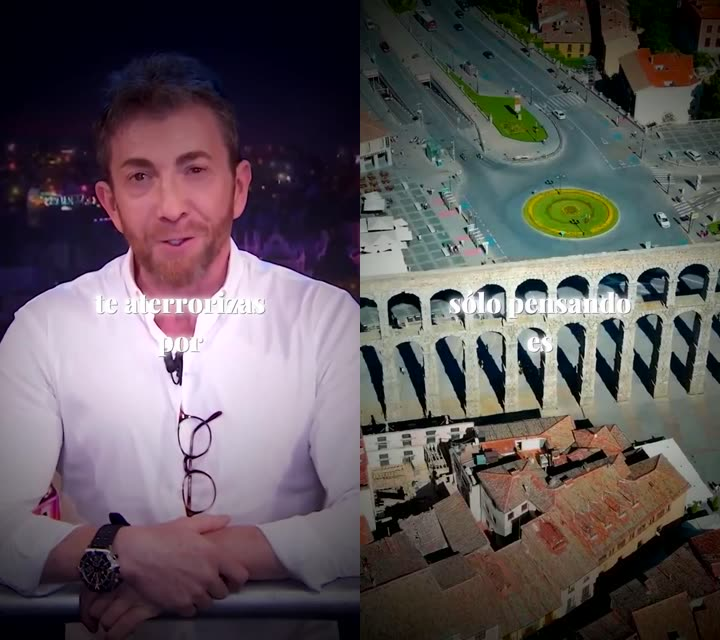
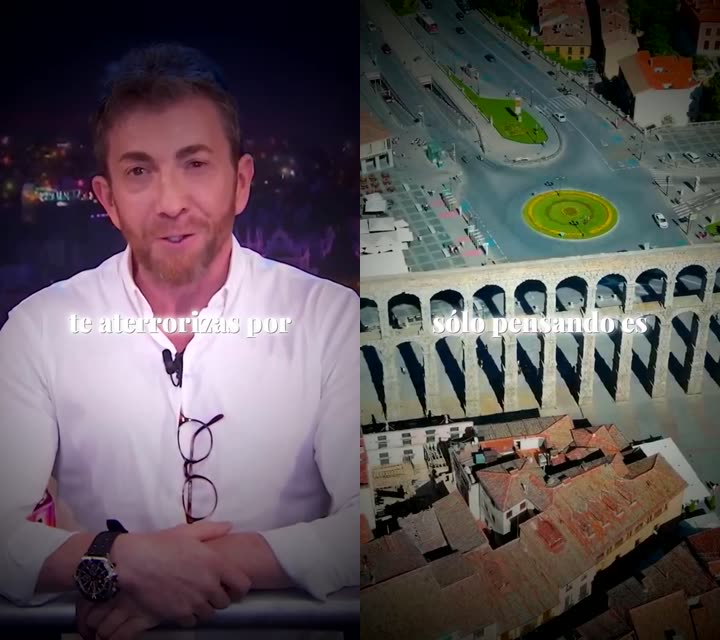
fix(viralizacion): los estilos de reflexión ya no parten siempre en dos líneas
Bajaban la última palabra SIEMPRE, así que todas las frases salían iguales y la
letra parecía más grande que la de B — dos renglones cortos ocupan más que uno.
Ahora va en una línea y solo baja cuando no cabe, como B.

Calibrado midiendo, no a ojo: 377 frases reales de las transcripciones,
renderizadas con libass y midiendo la caja del texto. B parte 4 de cada 24
frases; con cuerpo 115 (105 en PT Serif) y margen 125 px los nuevos parten 3 de
24 y quedan algo más pequeños que B, que es lo que se pedía. El margen no baja
de ~110: ahí el texto empieza a rozar la botonera de TikTok.

Miniaturas regeneradas: enseñaban la versión de dos líneas.

diff --git a/src/viralizacion/pipeline/styles.py b/src/viralizacion/pipeline/styles.py
@@ -179,12 +179,13 @@ def build_ass_reflexion(lines: list[dict], preset: "StylePreset") -> str:
     """
     font = preset.font_name or config.SUB_FONT
     size = int(config.SUB_FONTSIZE * preset.sub_scale)
+    margen = preset.sub_margin_lr or config.SUB_MARGIN_LR
     style_line = (
         f"Style: Default,{font},{size},"
         # Blanca. El contorno y la sombra del ESTILO van a cero: los pone cada
         # capa con sus propias etiquetas.
         f"&H00FFFFFF&,&H000000FF&,&H00000000&,&H90000000&,-1,0,0,0,100,100,0,0,1,0,0,5,"
-        f"{config.SUB_MARGIN_LR},{config.SUB_MARGIN_LR},0,1"
+        f"{margen},{margen},0,1"
     )
     header = _ass_header(style_line)
 
@@ -202,12 +203,11 @@ def build_ass_reflexion(lines: list[dict], preset: "StylePreset") -> str:
         palabras = [w["word"].strip().lower() for w in grupo if w["word"].strip()]
         if not palabras:
             continue
-        # Dos líneas: la última palabra baja. Con dos palabras o menos cabe de
-        # sobra en un renglón y partirla quedaría raro.
-        texto = (
-            "\\N".join([" ".join(palabras[:-1]), palabras[-1]])
-            if len(palabras) >= 3 else " ".join(palabras)
-        )
+        # UNA línea. Partirla siempre en dos (que es como nació este estilo)
+        # hacía la letra enorme y todas las frases iguales; el estilo B, que es
+        # el que funciona, cabe casi siempre en un renglón y solo baja cuando no
+        # cabe. De eso se encarga libass con `WrapStyle: 0` y el margen.
+        texto = " ".join(palabras)
         halo = (
             f"{{\\bord{preset.halo_bord}\\blur{preset.halo_blur}"
             f"\\3c{preset.halo_color}\\3a{preset.halo_alpha}\\shad0}}"
@@ -808,6 +808,11 @@ class StylePreset:
     # Sombra bajo la letra. Solo hace falta con halo BLANCO: sobre paisaje claro
     # el blanco sobre blanco se deshace y hay que despegarlo del fondo.
     halo_sombra: float = 0.0
+    # Margen lateral propio. El de `config` (145 px, 13,4%) está pensado para
+    # frases de una línea con el cuerpo de B; estos van algo más anchos para que
+    # tres palabras quepan en UN renglón sin encoger la letra. No se baja más:
+    # por debajo de ~110 px el texto empieza a rozar la botonera de TikTok.
+    sub_margin_lr: int = 0
 
 
 # ---------------------------------------------------------------------------
@@ -889,19 +894,19 @@ STYLE_PRESETS: dict[str, StylePreset] = {
         key="reflexion_luz", label="D · Reflexión · resplandor blanco",
         build_ass=build_ass_reflexion,
         font_name="Playfair Display Black", fonts_dir=bundled_fonts_dir(),
-        sub_scale=1.70, **_HALO_BLANCO, **_LIMPIO,
+        sub_scale=1.70, sub_margin_lr=125, **_HALO_BLANCO, **_LIMPIO,
     ),
     "reflexion_sombra": StylePreset(
         key="reflexion_sombra", label="E · Reflexión · halo negro",
         build_ass=build_ass_reflexion,
         font_name="Playfair Display Black", fonts_dir=bundled_fonts_dir(),
-        sub_scale=1.70, **_HALO_NEGRO, **_LIMPIO,
+        sub_scale=1.70, sub_margin_lr=125, **_HALO_NEGRO, **_LIMPIO,
     ),
     "reflexion_serif": StylePreset(
         key="reflexion_serif", label="F · Reflexión · PT Serif",
         build_ass=build_ass_reflexion,
         font_name="PT Serif", fonts_dir=bundled_fonts_dir(),
-        sub_scale=1.65, **_HALO_NEGRO, **_LIMPIO,
+        sub_scale=1.55, sub_margin_lr=125, **_HALO_NEGRO, **_LIMPIO,
     ),
 }
 

diff --git a/learnings.md b/learnings.md
@@ -484,3 +484,4 @@
 - [2026-08-11] [Escaparate] "No se guardan las marcas": eran DOS cosas. (1) Las marcas ANTERIORES al índice único vivían solo en el flag `en_escaparate` de cada producto; el POV BOF las seguía viendo (lee flag OR índice) pero los demás nichos leen SOLO el índice, así que allí salían sin marcar — 119 marcas invisibles. Migradas con `scripts/migrar_escaparate.py` (idempotente, solo añade; el índice pasó de 10 a 118 entradas: menos de 119 porque varias carpetas repiten el mismo producto, que es justo la deduplicación funcionando). (2) `/producto/estado` del POV BOF sacaba tienda/título del RETORNO de `update_product`, y como los tres campos que toca son privados, a un usuario que no sea `ness` le vuelve solo lo suyo, SIN título → clave vacía → la marca se perdía en silencio (Ana y Mauro no podían usar el escaparate). Ahora se leen aparte con `get_product` y, sin textos, se responde 400 claro en vez de fingir que se guardó.
 - [2026-08-11] [Viralización] Estilos: fuera los tres "sucios" (A/B/C con polvo de celuloide y grano, no viralizaban), las limpias A2/B2/C2 pasan a A/B/C y entran D/E/F "Reflexión" (`build_ass_reflexion`): patrón de B pero en MINÚSCULAS, frase partida en dos líneas y RESPLANDOR difuminado en vez de contorno duro. El resplandor tiene que ir en DOS capas ASS (halo en `layer=0`, letra nítida en `layer=1`): con una sola capa (`\bord` grueso + `\blur` sobre el propio texto) el difuminado se come el filo y sobre paisaje claro queda ilegible — se probó y se descartó. Con halo BLANCO hace falta además una sombra oscura mínima o el blanco sobre fondo claro se derrite. Método que funcionó para elegir: renderizar muestras con libass sobre un FOTOGRAMA REAL de paisaje y con el filtro claro aplicado, subirlas al Drive del operador y que él elija por número; nada de describir tipografías por escrito. Quitar claves de `STYLE_PRESETS` es seguro: `resolve_style`/`distribute_styles` caen a la rotación si una tanda guardada trae una clave retirada.
 - [2026-08-11] [Viralización] Regenerar las miniaturas de estilos fallaba con un críptico "Error submitting a packet to the muxer: Input/output error" de ffmpeg: los .jpg de `frontend/public/viralizacion/previews/` eran propiedad del uid 999 (los escribió el contenedor), y el script corre como `nebulabsai` — la carpeta es escribible, así que se pueden CREAR ficheros pero no SOBRESCRIBIR esos. Se borran antes de regenerar. Ojo también con `pgrep -f <script>`: el propio comando de espera contiene el nombre y se matcha a sí mismo, así que parecía que el proceso seguía vivo cuando llevaba media hora muerto (usar `pgrep -af "python3 scripts/..."` y mirar la línea completa).
+- [2026-08-11] [Viralización] Los estilos de reflexión partían la frase en dos líneas SIEMPRE (lo forzaba `build_ass_reflexion` bajando la última palabra) y por eso la letra parecía más grande que la de B: dos renglones cortos ocupan mucho más que uno. Ahora va en una línea y libass parte solo si no cabe (`WrapStyle: 0` + margen). Para calibrarlo se midió de verdad, no a ojo: 377 frases reales sacadas de las transcripciones cacheadas (`_cache/transcripts/*/*.json`), renderizadas una a una con libass sobre negro y midiendo la caja del texto con PIL (alto de la caja > 1,45× el cuerpo = dos líneas). Resultado: B parte 4 de 24 y los nuevos 3 de 24 con cuerpo 115/105 y margen 125 px. El margen no baja de ~110: ahí el texto empieza a rozar la botonera de TikTok. Al cambiar un estilo hay que regenerar su miniatura (`scripts/viralizacion_previews.py <clave>`), que si no enseña la versión vieja.
